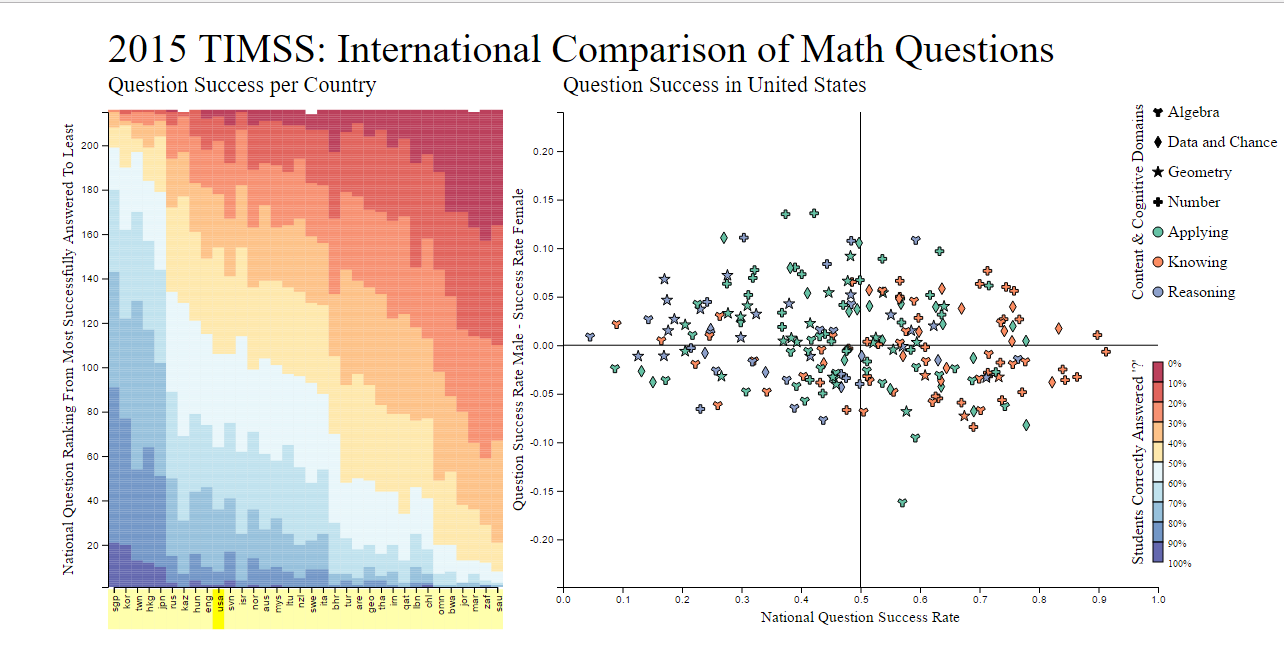
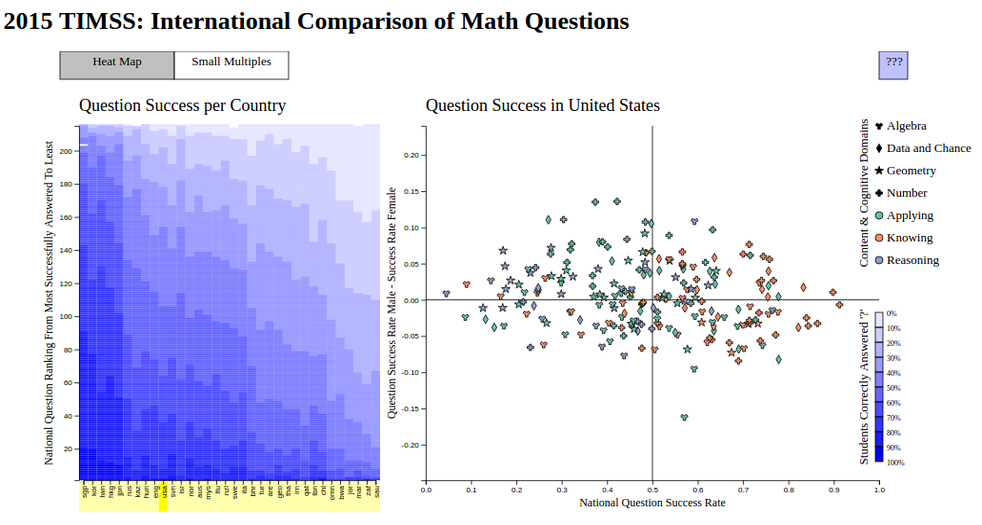
changed index picture for 2015_math

diff --git a/pages/timss_2015_math_questions.html b/pages/timss_2015_math_questions.html
@@ -52,6 +52,7 @@
             <li>The right panel displays question data specific to a country and is organized by national success rate and gender dominance. National success rate is the percentage of students given who successfully answered a question. Gender dominance is calculated by the percentage of total males who successfully answered a question subtracted by the percentage of total females who successfully answered a question. A country can be displayed by clicking on the country's abreviation on the bottom axis of left panel.</li>
         </ul>
         <p>While there are a total of 57 different countries that participated in TIMSS during 2015, I chose to visualize only the 34 countries that also participated in the 2011 assesment. There are a total of 7306 different datapoints on display at any given time. It would be difficult to display such a large amount of information on a static chart. While a lot of information can actually be discovered by simply looking at the color, shape, and positional encodings in the chart, even more information can be gained by hovering over a datapoint and seeing how a question compares internationally.</p>
+        <p>For an alternative representation of the data, please click on the 'Small Multiples' button. If you would like some guidance on how to interact with the visualization, then please click on the '???' button.</p>
         <p>There is a lot of information here. Please take your time and enjoy exploring through the data.</p>
         <h1>2015 TIMSS: International Comparison of Math Questions</h1>
     </div>
@@ -998,7 +999,9 @@
                         .at({width: domain_width, height: domain_height, 
                              x: function(d){return sm_content_domain(d.content_domain)},
                              y: function(d){return sm_cognitive_domain(d.cognitive_domain)}})
-                        .st({stroke: 'white', 'fill-opacity': .5, fill: function(d){return rank_color(+d.mean_rank)}}); 
+                        .st({stroke: 'white', 
+                             'fill-opacity': 1, 
+                             fill: function(d){return rank_color(+d.mean_rank)}}); 
 
                     sm_countries.append('text.countries')
                         .translate([country_width/2, country_height/4 - margin.gap])
